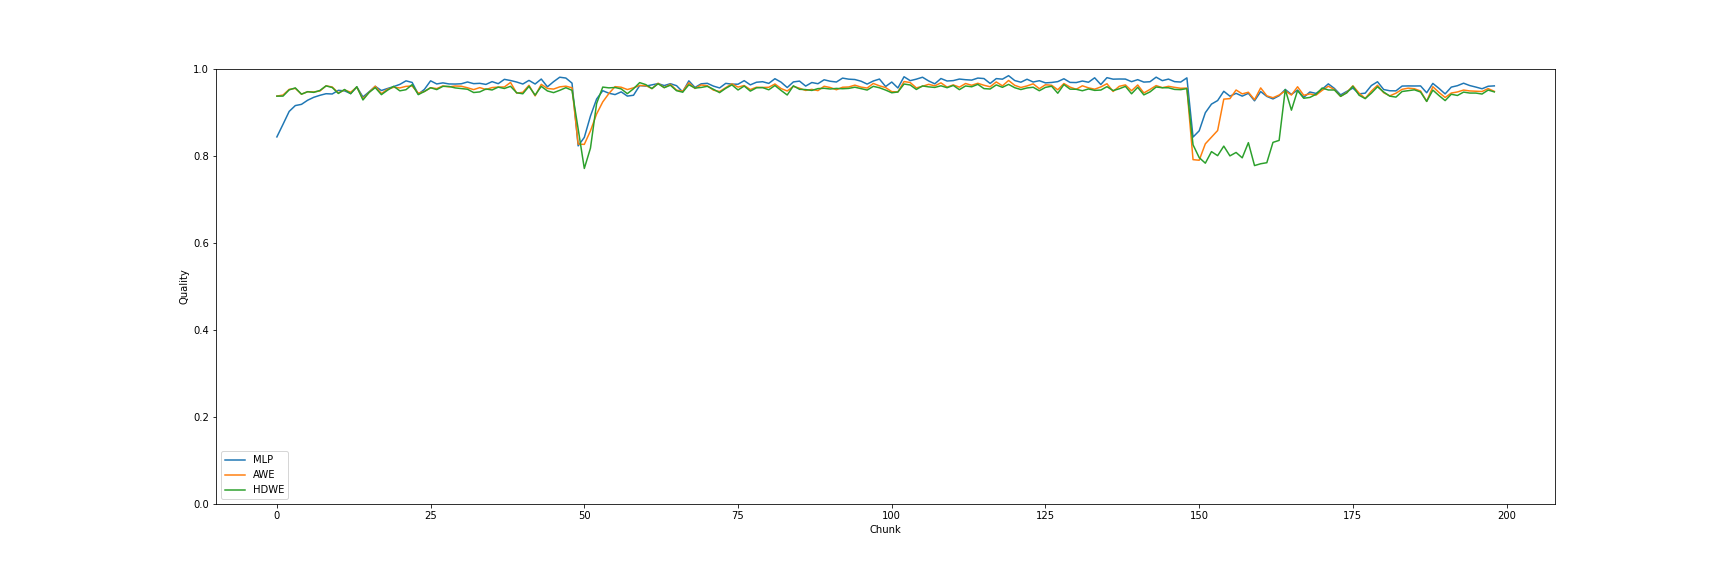
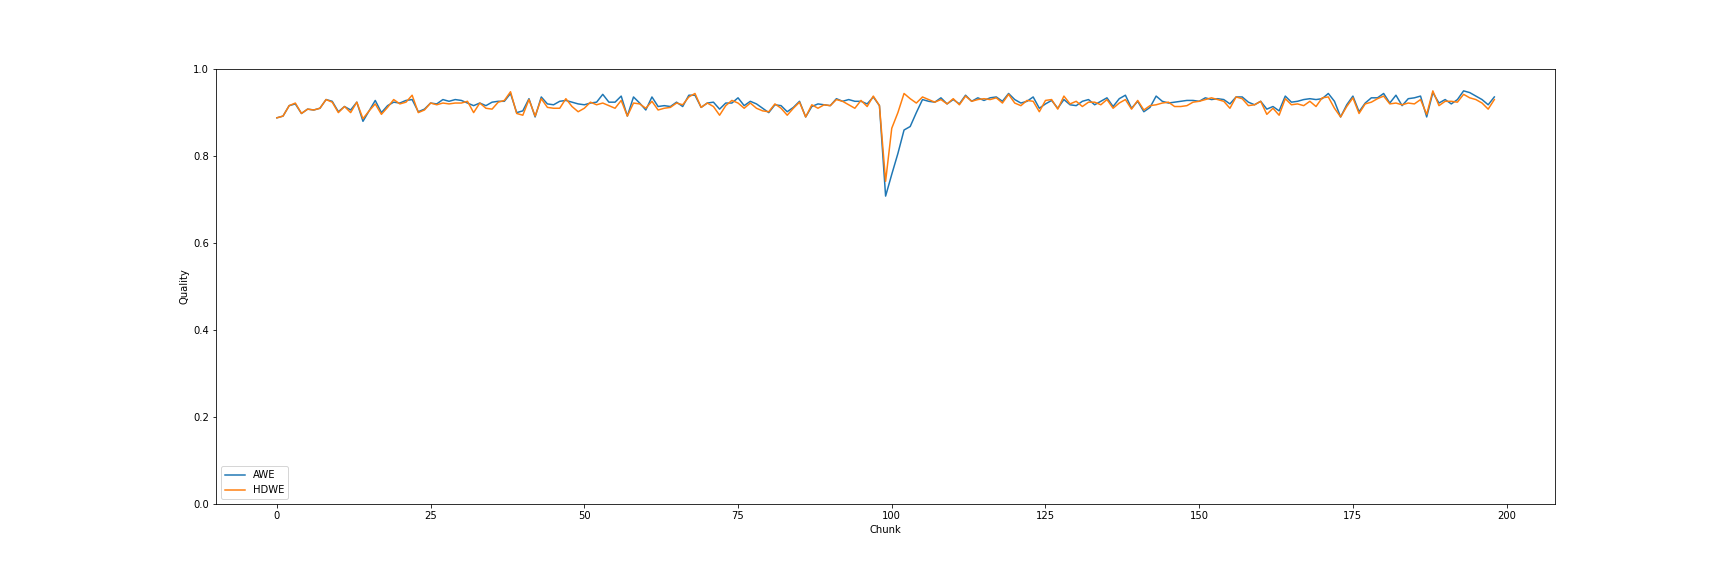
corrected version

Changed region(s): [[0.1562, 0.125, 0.875, 0.3125], [0.125, 0.7812, 0.1562, 0.8125]]

diff --git a/classifiers/HDWE.py b/classifiers/HDWE.py
@@ -5,7 +5,6 @@ from sklearn.model_selection import KFold
 import numpy as np
 from math import sqrt
 import strlearn as sl
-import statistics 
 
 class HDWE(ClassifierMixin, BaseEnsemble):
     
@@ -16,11 +15,12 @@ class HDWE(ClassifierMixin, BaseEnsemble):
     .. [2] Cieslak, David A., et al. "Hellinger distance decision trees are robust and skew-insensitive." Data Mining and Knowledge Discovery 24.1 (2012): 136-158.
     """
     
-    def __init__(self, base_estimator=None, n_estimators=10, n_splits=5):
+    def __init__(self, base_estimator=None, n_estimators=10, n_splits=5, pred_type="soft"):
         """Initialization."""
         self.base_estimator = base_estimator
         self.n_estimators = n_estimators
         self.n_splits = n_splits
+        self.pred_type = pred_type
         self.candidate_scores = []
         self.weights_ = []
         self.hd_weights = []
@@ -58,41 +58,10 @@ class HDWE(ClassifierMixin, BaseEnsemble):
             scores[fold] = self.hellinger_distance(fold_candidate, self.X_[test], self.y_[test])
         
         # Save scores
-        candidate_score = np.mean(scores)
-        self.candidate_scores.append(candidate_score)
-        # Normalize scores
-        if len(self.candidate_scores) > 0:
-            # !!! normalizacja z użyciem std i mean, ale chyba źle
-            # std = statistics.stdev(self.candidate_scores)
-            # mean = statistics.mean(self.candidate_scores)
-            # candidate_weight = (candidate_score-mean)/std
-            
-            # !!! normalizacja z wartoscia min i max, co daje zakres (0, 1), ale włącznie z 0 i 1 - co trochę psuje wykres
-            # normalized = [(candidate_s-min(self.candidate_scores))/(max(self.candidate_scores)-min(self.candidate_scores)) for candidate_s in self.candidate_scores]
-            # candidate_weight = normalized[-1]
-            
-            # !!! normalizacja, w której wartości sumują się do "1"
-            if sum(self.candidate_scores) == 0:
-                normalized = [0]
-            else:
-                normalized = [float(candidate_s)/sum(self.candidate_scores) for candidate_s in self.candidate_scores]
-            candidate_weight = normalized[-1]
-        else:
-            candidate_weight = 0
+        candidate_weight = np.mean(scores)
         
         # Calculate weights of current ensemble
-        self.hd_weights = [self.hellinger_distance(clf, self.X_, self.y_) for clf in self.ensemble_]
-        # Normalize weights
-        if len(self.hd_weights) > 0:
-            # !!! normalizacja, w której mamy wartości od 0 do 1 (włącznie)
-            # normalized_weights = [(hd_w-min(self.hd_weights))/(max(self.hd_weights)-min(self.hd_weights)) for hd_w in self.hd_weights] 
-            
-            # !!! normalizacja, w której wartości sumują się do "1"
-            if sum(self.hd_weights) == 0:
-                normalized_weights = [0]
-            else:
-                normalized_weights = [float(hd_w)/sum(self.hd_weights) for hd_w in self.hd_weights]  
-            self.weights_ = normalized_weights
+        self.weights_ = [self.hellinger_distance(clf, self.X_, self.y_) for clf in self.ensemble_]
 
         # Add new model
         self.ensemble_.append(candidate)
@@ -103,7 +72,15 @@ class HDWE(ClassifierMixin, BaseEnsemble):
             worst_idx = np.argmin(self.weights_)
             del self.ensemble_[worst_idx]
             del self.weights_[worst_idx]
-
+            
+        # Normalization of weights
+        if sum(self.weights_) != 0:
+            normalized_weights = [float(w)/sum(self.weights_) for w in self.weights_]  
+            self.weights_ = normalized_weights
+        else:
+            mean_ = 1/len(self.weights_)
+            self.weights_ = [mean_ for i in self.weights_]
+            
         return self
 
     # Calculate Hellinger distance based on ref. [2] 
@@ -126,38 +103,44 @@ class HDWE(ClassifierMixin, BaseEnsemble):
     def ensemble_support_matrix(self, X):
         """Ensemble support matrix."""
         return np.array([member_clf.predict_proba(X) for member_clf in self.ensemble_])
+    
+    def predict(self, X):
+        if self.pred_type == "soft":
+            return self.predict_soft(X)
+        elif self.pred_type == "hard":
+            return self.predict_hard(X)
 
     # Prediction without calculated weights
-    # def predict(self, X):
-    #     """
-    #     Predict classes for X.
+    def predict_hard(self, X):
+        """
+        Predict classes for X.
 
-    #     Parameters
-    #     ----------
-    #     X : array-like, shape (n_samples, n_features)
-    #         The training input samples.
+        Parameters
+        ----------
+        X : array-like, shape (n_samples, n_features)
+            The training input samples.
 
-    #     Returns
-    #     -------
-    #     y : array-like, shape (n_samples, )
-    #         The predicted classes.
-    #     """
+        Returns
+        -------
+        y : array-like, shape (n_samples, )
+            The predicted classes.
+        """
 
-    #     # Check is fit had been called
-    #     check_is_fitted(self, "classes_")
-    #     X = check_array(X)
-    #     if X.shape[1] != self.X_.shape[1]:
-    #         raise ValueError("number of features does not match")
+        # Check is fit had been called
+        check_is_fitted(self, "classes_")
+        X = check_array(X)
+        if X.shape[1] != self.X_.shape[1]:
+            raise ValueError("number of features does not match")
 
-    #     esm = self.ensemble_support_matrix(X)
-    #     average_support = np.mean(esm, axis=0)
-    #     prediction = np.argmax(average_support, axis=1)
+        esm = self.ensemble_support_matrix(X)
+        average_support = np.mean(esm, axis=0)
+        prediction = np.argmax(average_support, axis=1)
 
-    #     # Return prediction
-    #     return self.classes_[prediction]
+        # Return prediction
+        return self.classes_[prediction]
 
     # Prediction (making decision) use Hellinger distance weights 
-    def predict(self, X):
+    def predict_soft(self, X):
         """
         Predict classes for X.
     

diff --git a/experiment.py b/experiment.py
@@ -13,7 +13,7 @@ from utils.TestThenTrainEvaluator import TestThenTrainEvaluator
 
 # List of classifiers from sklearn and others, but partial_fit() function is mandatory
 clfs = [
-    MLPClassifier(),
+    # MLPClassifier(),
     # sl.ensembles.OOB(GaussianNB()),
     # sl.ensembles.UOB(GaussianNB()),
     # sl.ensembles.OnlineBagging(GaussianNB()),
@@ -24,7 +24,7 @@ clfs = [
 ]
 
 clf_names = [
-    "MLP",
+    # "MLP",
     # "OOB",
     # "UOB",
     # "OB",
@@ -42,14 +42,14 @@ concept_kwargs = {
     "n_classes": 2,
     "random_state": 157,
     "n_features": 20,
-    "n_drifts": 2,
+    "n_drifts": 1,
     # "incremental": True,   # incremental drift
     # "concept_sigmoid_spacing": 5,  # incremental drift
     "n_informative": 15,
     "n_redundant": 5,
     "n_repeated": 0,
     "weights": [0.1, 0.9],     # stationary imbalanced stream
-    # "weights": (1, 5, 0.9),    # dynamically imbalanced stream - !!! wtedy coś nie działa w prediction w funckji HDWE, i ze zwykłą predykcją, wykres trochę dziwny
+    # "weights": (2, 5, 0.9),    # dynamically imbalanced stream
 }
 
 stream = sl.streams.StreamGenerator(**concept_kwargs)
@@ -61,17 +61,17 @@ stream_name = "nonstationary"
 metrics = [sl.metrics.f1_score]
 
 # Initialize evaluator with given metrics
-evaluator = sl.evaluators.TestThenTrain(metrics)
+# evaluator = sl.evaluators.TestThenTrain(metrics)
 
 # This evaluator is need to DriftEvaluator
-# evaluator = TestThenTrainEvaluator()
+evaluator = TestThenTrainEvaluator()
 
 
 evaluator.process(stream, clfs)
 
-# !!! Scores from Drift eval. - wychodzą trochę gorsze wyniki, czemu, jak to jest to samo co w strlearn tylko kilka rzeczy dodanych?
-# drift_evaluator = DriftEvaluator(evaluator.scores, evaluator.drift_indices)
-# print("Final scores:\n", evaluator.scores)
+# !!! Scores from Drift eval. - wychodzą trochę gorsze wyniki niż z strlearn - ?
+drift_evaluator = DriftEvaluator(evaluator.scores, evaluator.drift_indices)
+print("Final scores:\n", evaluator.scores)
 # Metryki dryftu ?
 # max_performance_loss = drift_evaluator.get_max_performance_loss()
 # recovery_lengths = drift_evaluator.get_recovery_lengths()
@@ -79,12 +79,12 @@ evaluator.process(stream, clfs)
 # models_scores = evaluator.scores
 
 
-scores = evaluator.scores
-print(scores.shape)
+# scores = evaluator.scores
+# print(scores.shape)
 
 # Shape of the score: 1st - classfier, 2nd - chunk, 3rd - metric
 # Every matrix is different classifier, every row is test chunks and every column is different metric
-print(scores)
+# print(scores)
 
 # Plotting figures of chosen metrics
 fig, ax = plt.subplots(1, len(metrics), figsize=(24, 8))

diff --git a/utils/TestThenTrainEvaluator.py b/utils/TestThenTrainEvaluator.py
@@ -1,13 +1,16 @@
 from strlearn.evaluators.TestThenTrain import *
 from skmultiflow.drift_detection import DDM
-from sklearn.metrics import accuracy_score, auc, f1_score
+from sklearn.metrics import accuracy_score, auc, f1_score, balanced_accuracy_score
+from tqdm import tqdm
+import numpy as np
 
 class TestThenTrainEvaluator(TestThenTrain):
 
-    def __init__(self, metrics=[accuracy_score]):
+    def __init__(self, metrics=[accuracy_score], verbose=False):
         super(TestThenTrainEvaluator, self).__init__(metrics=metrics)
         self._ddm = DDM(min_num_instances=10, warning_level=1.0, out_control_level=1.5)
         self.drift_indices = []
+        self.verbose = verbose
 
     def process(self, stream, clfs):
         """
@@ -34,8 +37,13 @@ class TestThenTrainEvaluator(TestThenTrain):
             (len(self.clfs_), ((self.stream_.n_chunks - 1)), len(self.metrics))
         )
 
+        if self.verbose:
+            pbar = tqdm(total=stream.n_chunks)
+            
         while True:
             X, y = stream.get_chunk()
+            if self.verbose:
+                pbar.update(1)
 
             # Test
             if stream.previous_chunk is not None:
